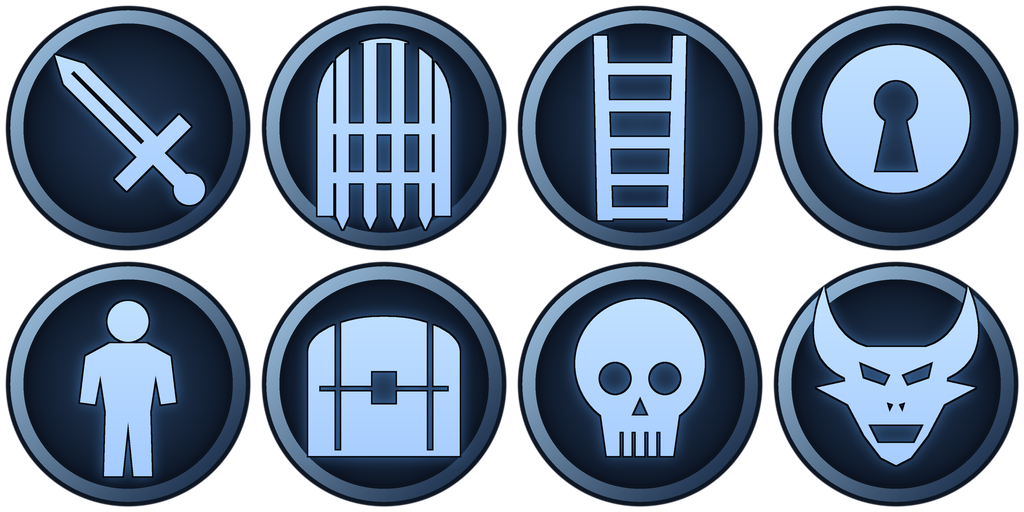
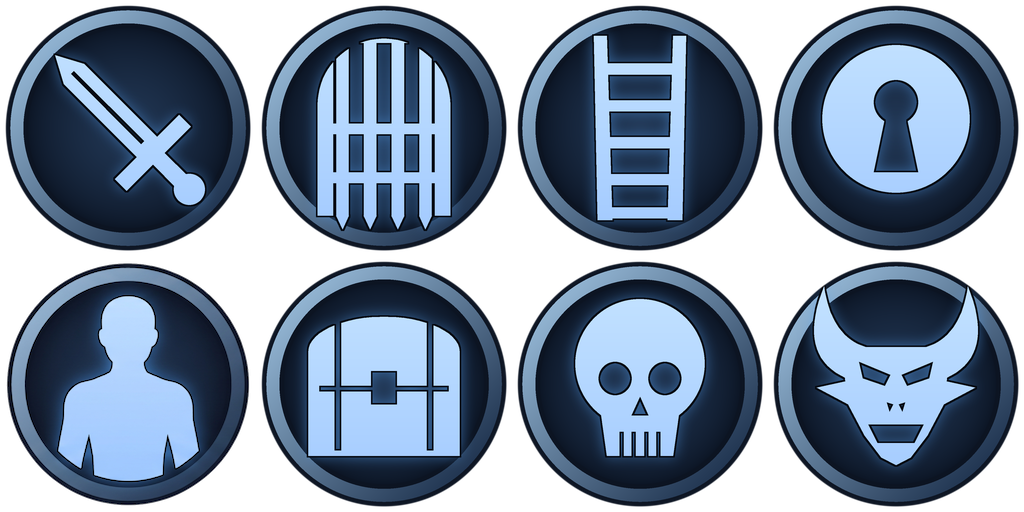
added x marker for a dead firekeeper bonfire

Changed region(s): [[0.0, 0.5, 0.25, 1.0]]

diff --git a/GameMap.h b/GameMap.h
@@ -88,6 +88,11 @@ namespace Look {
     const float kBonfireNameSize = 11.0f;
     const D3DCOLOR kBonfireName = D3DCOLOR_ARGB(240, 236, 214, 170);
     const D3DCOLOR kNameBack = D3DCOLOR_ARGB(200, 14, 11, 8), kNameLine = D3DCOLOR_ARGB(210, 176, 146, 92);
+    // a bonfire whose Fire Keeper is absent: a red X over the dimmed bonfire, its label in red
+    const D3DCOLOR kKeeperX = D3DCOLOR_ARGB(255, 214, 38, 30);
+    const D3DCOLOR kKeeperName = D3DCOLOR_ARGB(255, 236, 96, 80), kKeeperNameLine = D3DCOLOR_ARGB(210, 170, 50, 40);
+    const float kKeeperDark = 0.50f;                        // the bonfire under the X
+    const float kKeeperXSize = 0.78f;                       // the X, as a part of the bonfire icon
     const float kNamePadX = 4.0f, kNamePadY = 1.5f;
     const float kBonfireNameWorldZoom = 1.2f;              // world page: labels when zoomed in to this (metres per UI pixel) or closer
     const D3DCOLOR kUpMark = D3DCOLOR_ARGB(255, 240, 200, 110);
@@ -402,7 +407,13 @@ namespace Look {
 // Then the pins: "PINS", version 1, for each of the 10 slots a count and that many PinRec. An older DSfix reads the
 // slots and does not look further (it keeps working, without the pins).
 // =====================================================================================================================
-    struct SlotData { bool used; wchar_t name[16]; std::vector<CellRec> cells; std::vector<PinRec> pins; };
+    // the Fire Keepers seen by the character in play (see watchKeepers): 0 = not seen yet, 1 = there, 2 = absent
+    const int kKeepers = 3;
+    const DWORD kKeeperBonfire[kKeepers] = { 1021960, 1401960, 1511960 };   // Firelink Shrine, Daughter of Chaos, Anor Londo
+    const WORD kKeeperPlace[kKeepers] = { 1020, 1401, 1510 };                 // their areas: Firelink Shrine, Quelaag's Domain, Anor Londo
+    BYTE g_keepers[kKeepers] = { 0, 0, 0 };
+    DWORD g_keeperSince[kKeepers] = { 0, 0, 0 };   // its area loaded since (0: not loaded)
+    struct SlotData { bool used; wchar_t name[16]; std::vector<CellRec> cells; std::vector<PinRec> pins; BYTE keepers[3]; };
     SlotData g_file[10];
     bool g_fileRead = false;
     std::string g_filePath;                           // empty = no save folder found: kept only while the game runs
@@ -443,7 +454,10 @@ namespace Look {
 
     void readFile() {
         g_fileRead = true;
-        for (int s = 0; s < 10; ++s) { g_file[s].used = false; g_file[s].name[0] = 0; g_file[s].cells.clear(); g_file[s].pins.clear(); }
+        for (int s = 0; s < 10; ++s) {
+            g_file[s].used = false; g_file[s].name[0] = 0; g_file[s].cells.clear(); g_file[s].pins.clear();
+            memset(g_file[s].keepers, 0, sizeof(g_file[s].keepers));
+        }
         const std::string folder = findSaveFolder();
         if (folder.empty()) { SDLOG(0, "gameMap: no save folder found, the explored map is kept only while the game runs\n"); return; }
         g_filePath = folder + "\\DSfixMap.dat";
@@ -479,9 +493,10 @@ namespace Look {
             ++whole;
         }
         // the pins (after the 10 slots)
+        int pinSlots = 0;                            // slots whose pins were read completely
         if (whole == 10 && p + 8 <= d.size() && memcmp(&d[p], "PINS", 4) == 0 && *(const DWORD*)&d[p + 4] == 1) {
             p += 8;
-            for (int s = 0; s < 10; ++s) {
+            for (int s = 0; s < 10; ++s, ++pinSlots) {
                 if (p + 4 > d.size()) break;
                 const DWORD n = *(const DWORD*)&d[p]; p += 4;
                 if (n > (DWORD)kPinMax || p + (size_t)n * sizeof(PinRec) > d.size()) break;
@@ -496,6 +511,12 @@ namespace Look {
                 }
             }
         }
+        // the Fire Keepers seen (after the pins): "KEEP", version 1, 3 bytes per slot (0 not seen, 1 there, 2 absent)
+        if (pinSlots == 10 && p + 8 + 30 <= d.size() && memcmp(&d[p], "KEEP", 4) == 0 && *(const DWORD*)&d[p + 4] == 1) {
+            p += 8;
+            for (int s = 0; s < 10; ++s)
+                for (int k = 0; k < 3; ++k, ++p) g_file[s].keepers[k] = d[p] <= 2 ? d[p] : 0;
+        }
         SDLOG(0, "gameMap: %s read\n", g_filePath.c_str());
     }
 
@@ -506,6 +527,7 @@ namespace Look {
         sd.used = true;
         memcpy(sd.name, g_activeName, sizeof(sd.name));
         sd.pins = g_pins;
+        memcpy(sd.keepers, g_keepers, sizeof(sd.keepers));
         sd.cells.clear();
         sd.cells.reserve(g_cellCount);
         for (int p = 0; p < kPlaceCount; ++p)
@@ -545,6 +567,7 @@ namespace Look {
         for (int s = 0; s < 10; ++s) total += 40 + g_file[s].cells.size() * sizeof(CellRec);
         total += 8;                                  // the pins: "PINS", version, then a count and the pins of each slot
         for (int s = 0; s < 10; ++s) total += 4 + g_file[s].pins.size() * sizeof(PinRec);
+        total += 8 + 30;                             // the Fire Keepers: "KEEP", version, 3 bytes per slot
         j->data.resize(total);
         BYTE* p = &j->data[0];
         memcpy(p, "DSMP", 4); *(DWORD*)(p + 4) = 1; *(DWORD*)(p + 8) = 10; p += 12;
@@ -561,6 +584,8 @@ namespace Look {
             *(DWORD*)p = n; p += 4;
             if (n) { memcpy(p, &g_file[s].pins[0], n * sizeof(PinRec)); p += n * sizeof(PinRec); }
         }
+        memcpy(p, "KEEP", 4); *(DWORD*)(p + 4) = 1; p += 8;
+        for (int s = 0; s < 10; ++s) { memcpy(p, g_file[s].keepers, 3); p += 3; }
         HANDLE t = CreateThread(NULL, 0, writerThread, j, 0, NULL);
         if (!t) { delete j; InterlockedExchange(&g_writing, 0); return false; }
         CloseHandle(t);
@@ -578,6 +603,8 @@ namespace Look {
         }
         clearCells();
         g_pins.clear();
+        memset(g_keepers, 0, sizeof(g_keepers));
+        memset(g_keeperSince, 0, sizeof(g_keeperSince));
         g_activeSlot = slot;
         memcpy(g_activeName, name, sizeof(g_activeName));
         g_activeName[15] = 0;
@@ -585,6 +612,7 @@ namespace Look {
         bool same = sd.used && wcsncmp(sd.name, g_activeName, 16) == 0;
         if (same) {
             g_pins = sd.pins;
+            memcpy(g_keepers, sd.keepers, sizeof(g_keepers));
             for (size_t i = 0; i < sd.cells.size(); ++i) {
                 const CellRec& c = sd.cells[i];
                 const int p = placeIndex(c.place);
@@ -663,6 +691,46 @@ namespace Look {
                     }
             if (!rdD(node, node)) return;
         }
+    }
+
+    // ---- Fire Keepers: a bonfire whose Fire Keeper is dead ("Fire Keeper is absent. Cannot light bonfire.") ----
+    // The bonfire list's entry: +0xD = 1 while the keeper is there, but only while its area is loaded (+0xE != 0; the game
+    // sets both together and clears both when the area unloads). So, about once a second, and only while the hero is in one
+    // of the three keepers' areas (the area the game names, as on the map), the bonfire list is read. The last state seen
+    // there is kept per character in DSfixMap.dat: the map shows it anywhere.
+    DWORD g_keeperTick = 0;
+    void watchKeepers(DWORD now) {
+        if (now - g_keeperTick < 1000) return;
+        g_keeperTick = now;
+        bool here = false;
+        if (g_heroPlace >= 0)
+            for (int k = 0; k < kKeepers; ++k) if (kPlaces[g_heroPlace].id == kKeeperPlace[k]) here = true;
+        if (!here) { memset(g_keeperSince, 0, sizeof(g_keeperSince)); return; }   // elsewhere: nothing more is read
+        bool seen[kKeepers] = { false, false, false };
+        DWORD root = 0, db = 0, head = 0, node = 0;
+        if (!rdD(kBonfireRoot, root) || !root || !rdD(root + 0xB48, db) || !db || !rdD(db + 0x24, head) || !head) return;
+        if (!rdD(head, node)) return;
+        for (int n = 0; node && node != head && n < 256; ++n) {
+            DWORD item = 0, e = 0, f = 0;
+            if (!rdD(node + 8, item)) return;
+            if (item && rdD(item + 4, e))
+                for (int k = 0; k < kKeepers; ++k) {
+                    if (e != kKeeperBonfire[k] || !rdD(item + 0xC, f)) continue;
+                    if (((f >> 16) & 0xFF) == 0) continue;                 // its area is not loaded: +0xD says nothing
+                    seen[k] = true;
+                    if (!g_keeperSince[k]) g_keeperSince[k] = now | 1;
+                    if (now - g_keeperSince[k] < 3000) continue;          // just loaded: the game may not be done
+                    const BYTE st = ((f >> 8) & 0xFF) ? 1 : 2;
+                    if (st != g_keepers[k]) { g_keepers[k] = st; g_dirty = true; }
+                }
+            if (!rdD(node, node)) return;
+        }
+        for (int k = 0; k < kKeepers; ++k) if (!seen[k]) g_keeperSince[k] = 0;
+    }
+    // the bonfire (table index) has no Fire Keeper (the map's red X)
+    bool keeperAbsent(int b) {
+        for (int k = 0; k < kKeepers; ++k) if (kBonfires[b].entity == kKeeperBonfire[k]) return g_keepers[k] == 2;
+        return false;
     }
 
     // the areas with something to show, in page order
@@ -861,8 +929,8 @@ namespace Look {
     IDirect3DTexture9* g_blob = NULL;           // soft round spot (icons)
     IDirect3DTexture9* g_bump = NULL;           // the ground spot: alpha = smooth bump, colour white inside the circle
     IDirect3DTexture9* g_bonfireTex = NULL;
-    enum { SHAPE_HERO, SHAPE_UP, SHAPE_STAIN_ARROW, SHAPE_COUNT };
-    IDirect3DTexture9* g_shape[SHAPE_COUNT] = { NULL, NULL, NULL };
+    enum { SHAPE_HERO, SHAPE_UP, SHAPE_STAIN_ARROW, SHAPE_X, SHAPE_COUNT };
+    IDirect3DTexture9* g_shape[SHAPE_COUNT] = { NULL, NULL, NULL, NULL };
     bool g_bonfireTried = false;
     IDirect3DTexture9* g_pinTex = NULL;         // the 8 medallions (4 x 2), premultiplied, with smaller copies
     bool g_pinTried = false;
@@ -971,9 +1039,21 @@ namespace Look {
     bool makeShapes(IDirect3DDevice9* dev) {
         static const float arrow[8] = { 0.50f, 0.08f, 0.86f, 0.90f, 0.50f, 0.70f, 0.14f, 0.90f };   // tip, right, notch, left
         static const float up[6] = { 0.50f, 0.14f, 0.88f, 0.82f, 0.12f, 0.82f };
+        // the red X (a Fire Keeper is absent): a plus with arms 0.09 wide, turned 45 degrees
+        float x[24];
+        {
+            const float h = 0.085f, L = 0.40f, c = 0.70710678f;
+            const float plus[24] = { -h, -L, h, -L, h, -h, L, -h, L, h, h, h, h, L, -h, L, -h, h, -L, h, -L, -h, -h, -h };
+            for (int i = 0; i < 12; ++i) {
+                const float px = plus[2 * i], py = plus[2 * i + 1];
+                x[2 * i] = 0.5f + (px - py) * c;
+                x[2 * i + 1] = 0.5f + (px + py) * c;
+            }
+        }
         return makeShape(dev, SHAPE_HERO, arrow, 4, Look::kHero, Look::kHeroOutline, 0.045f) &&
             makeShape(dev, SHAPE_UP, up, 3, Look::kUpMark, Look::kHeroOutline, 0.06f) &&
-            makeShape(dev, SHAPE_STAIN_ARROW, arrow, 4, Look::kStain, Look::kHeroOutline, 0.05f);
+            makeShape(dev, SHAPE_STAIN_ARROW, arrow, 4, Look::kStain, Look::kHeroOutline, 0.05f) &&
+            makeShape(dev, SHAPE_X, x, 12, Look::kKeeperX, Look::kHeroOutline, 0.035f);
     }
     // a textured square turned so that the texture's top points along (dx, dy) (screen, unit length)
     void quadDir(float cx, float cy, float half, float dx, float dy, D3DCOLOR c) {
@@ -1861,6 +1941,7 @@ namespace Look {
             const wchar_t* lText[64];
             wchar_t lBuf[64][96];                               // "name (K:n)": n = the Estus the bonfire gives, 5 / 10 / 15 / 20
             LRect lRect[64];
+            bool lRed[64];
             if (g_page == 0 || g_zoom[1] <= Look::kBonfireNameWorldZoom) {
                 const float lh = Look::kBonfireNameSize * s * 1.2f, px_ = Look::kNamePadX * s, py_ = Look::kNamePadY * s;
                 for (int i = 0; i < nb; ++i) {
@@ -1878,7 +1959,7 @@ namespace Look {
                     const LRect* pick = labelSpot(bx[i], by[i], bsz[i] * 0.32f, by[i] - bsz[i] * 0.5f, by[i] + bsz[i] * 0.45f, w, h, &spot);
                     if (!pick) continue;
                     addObst(*pick);
-                    lText[nl] = name; lRect[nl] = *pick; ++nl;
+                    lText[nl] = name; lRect[nl] = *pick; lRed[nl] = keeperAbsent(b); ++nl;
                 }
             }
             // pin labels (up to two lines of 17): under the medallion, else above, right or left of it, else left out
@@ -1906,10 +1987,18 @@ namespace Look {
             if (g_bonfireTex) setDrawStates(dev, g_bonfireTex, false);
             else setDrawStates(dev, g_blob, false);
             for (int i = 0; i < nb; ++i) {
-                const float k = bBelow[i] ? Look::kBonfireBelowDark : 1.0f, sz = bsz[i];
+                const float k = (bBelow[i] ? Look::kBonfireBelowDark : 1.0f) * (keeperAbsent(bi[i]) ? Look::kKeeperDark : 1.0f), sz = bsz[i];
                 const DWORD a = (DWORD)(fade * 255.0f + 0.5f), c = (DWORD)(fade * k * 255.0f + 0.5f);
                 const D3DCOLOR col = g_bonfireTex ? D3DCOLOR_ARGB(a, c, c, c) : pm(D3DCOLOR_ARGB(255, 255, 150, 50), fade * k);
                 quad(bx[i] - sz * 0.5f, by[i] - sz * 0.5f, bx[i] + sz * 0.5f, by[i] + sz * 0.5f, col);
+            }
+            flush(dev);
+            setDrawStates(dev, g_shape[SHAPE_X], false);
+            for (int i = 0; i < nb; ++i) {                      // the red X: its Fire Keeper is absent
+                if (!keeperAbsent(bi[i])) continue;
+                const float m = bsz[i] * Look::kKeeperXSize * 0.5f;
+                const DWORD f8 = (DWORD)(fade * 255.0f + 0.5f);
+                quad(bx[i] - m, by[i] - m, bx[i] + m, by[i] + m, D3DCOLOR_ARGB(f8, f8, f8, f8));
             }
             flush(dev);
             setDrawStates(dev, g_shape[SHAPE_UP], false);
@@ -1944,7 +2033,7 @@ namespace Look {
                 for (int i = 0; i < nl; ++i) {
                     const LRect& r = lRect[i];
                     quad(r.l, r.t, r.r, r.b, pm(Look::kNameBack, fade));
-                    const D3DCOLOR c = pm(Look::kNameLine, fade);
+                    const D3DCOLOR c = pm(lRed[i] ? Look::kKeeperNameLine : Look::kNameLine, fade);
                     quad(r.l, r.t, r.r, r.t + lw, c); quad(r.l, r.b - lw, r.r, r.b, c);
                     quad(r.l, r.t + lw, r.l + lw, r.b - lw, c); quad(r.r - lw, r.t + lw, r.r, r.b - lw, c);
                 }
@@ -1967,7 +2056,7 @@ namespace Look {
             }
             for (int i = 0; i < na; ++i) text(1, aText[i], ax[i], ay[i], Look::kLabel, DT_CENTER | DT_TOP, fade);
             for (int i = 0; i < nl; ++i)
-                text(3, lText[i], (lRect[i].l + lRect[i].r) * 0.5f, lRect[i].t + Look::kNamePadY * s, Look::kBonfireName, DT_CENTER | DT_TOP, fade);
+                text(3, lText[i], (lRect[i].l + lRect[i].r) * 0.5f, lRect[i].t + Look::kNamePadY * s, lRed[i] ? Look::kKeeperName : Look::kBonfireName, DT_CENTER | DT_TOP, fade);
 
             // soul remains: a green spot, or an arrow on the edge pointing to it
             if (g_stainHas && onPage(g_stainPlace)) {
@@ -2537,6 +2626,7 @@ namespace Look {
             }
         }
         if (now - g_stainCheckTick > 500) { g_stainCheckTick = now; readStain(true); }
+        watchKeepers(now);                              // the Fire Keepers: once a second, and only in their 3 areas
         if (g_dirty && now - g_lastSaveTick > 60000) { g_lastSaveTick = now; saveFile(); }
         if (g_writing == 2) { InterlockedExchange(&g_writing, 0); SDLOG(0, "gameMap: could not write %s\n", g_filePath.c_str()); }
 

diff --git a/main.h b/main.h
@@ -27,12 +27,12 @@
 
 #define WITHOUT_GFWL_LIB
 
-#ifndef RELEASE_VER
+//#ifndef RELEASE_VER
 #include "Settings.h" // SDLOG reads the log level; needed by every file that uses SDLOG when RELEASE_VER is not defined
 #define SDLOG(_level, _str, ...) if(Settings::get().getLogLevel() > _level) { sdlog(_str, __VA_ARGS__); }
-#else
-#define SDLOG(_level, _str, ...) {}
-#endif
+//#else
+//#define SDLOG(_level, _str, ...) {}
+//#endif
 #define SAFERELEASE(_p) { if(_p) { (_p)->Release(); (_p) = NULL; } }
 #define SAFEDELETE(_p) { if(_p) { delete (_p); (_p) = NULL; } }
 

diff --git a/README.md b/README.md
@@ -41,30 +41,9 @@ To ensure maximum stability on modern machines, configure your environment using
 * **Multiple Covenant Offerings:** `covenantOfferings` (off by default) turns the "Offer ...?" question at a covenant altar or leader into the game's own number picker, so many Sunlight Medals, Dragon Scales, Eyes of Death, Souvenirs of Reprisal, or many Humanity, can be handed over in one step instead of answering Yes once per item. Six covenants take offerings and all six are covered: Warriors of Sunlight, Darkwraith, Path of the Dragon, Gravelord Servant, Blade of the Darkmoon and Chaos Servant. Forest Hunter ranks up by killing invaders rather than by offerings, and Way of White and Princess's Guard have no ranks. The picker never offers enough to reach the next covenant rank, so the offering that ranks you up is always the game's own unchanged single question and its reward arrives exactly as it always did; below rank 1 the picker stops at 9, between the first two ranks at 29, between the next two at 79, and after the last rank it goes up to 100. The number offered is never more than you hold, the game's own question is kept word for word so it reads correctly in all ten languages, and the window follows the `menuScale` setting. The items taken and the devotion gained are written in the same single step, so the two can never disagree, and if anything does not add up the offering is simply left as a normal single one. Before anything is patched, both places in the game's code are compared against the bytes this build should have, and if either differs nothing is changed and the feature stays off. The addresses and the technique come from the Dark Souls Overhaul team's research (metal-crow and Sean Pesce, "Multi-Tribute"); the implementation here is DSfix 3.0's own code.
 * **Durability Bars for weapons:** Shows a thin Dark Souls 3 style bar under each weapon slot. The dark red part shrinks as the weapon loses durability, and the dark background stays. An empty hand has no bar. While two-handing, the bar fades together with the other hand's weapon icon. If a bow or crossbow is equipped, the arrow/bolt box and its count move down so they stay below the bar. The bars are part of the bottom-left HUD, so every scaling option apply to them.
 ### In-game map (gameMap)
-Open the gesture window (Back) while you play and a map appears next to it, a little see-through
-(the game is not paused; the bottom-left HUD fades out meanwhile).
-
-- Shows only the ground you have explored; it is revealed as you walk and saved per character
-  in `DSfixMap.dat`, next to your save file.
-- Shows height by brightness: ground at your level is bright, lower ground is darker, higher ground
-  is fainter, so floors stacked above each other stay readable.
-- Area pages (Firelink Shrine, Undead Burg, ...) and a world page of all Lordran, with area names.
-  Anor Londo is at the top.
-- Your lit bonfires (read from the game, so loading an older save shows that save's bonfires),
-  with their names and their kindle level, for example `Anor Londo (K:10)`: K is the number of
-  Estus Flask charges the bonfire gives (5 lit, 10 / 15 / 20 kindled). Lower or higher bonfires are marked.
-- Your soul remains (green spot, or an arrow on the edge when off the map) and your direction.
-- **Map pins:** put your own markers on the map ("Come back with Master Key", "Merchant", "Hard enemy").
-  Choose one of 8 medallions and write up to 34 letters (shown in two lines under the pin).
-  Pins go only on the ground you have explored, never on top of each other or a bonfire, and they
-  zoom, move and change page with the map like bonfires. Saved per character in `DSfixMap.dat`.
- 
-- No fast travel: the map only shows.
-- Controls: pad RS move, LT/RT zoom, LB/RB area, R3 area/world. Mouse drag move, wheel zoom,
-  `,` / `.` area, `M` area/world.
-- Characters you played before using the map start with an empty map (their lit bonfires show anyway).
-
-`gameMap 1` in DSfix.ini to turn it on (default 0 = off, nothing installed).
+Opening the gesture menu displays a semi-transparent in-game map that reveals the world as you explore, with separate views for individual areas and all of Lordran. 
+It uses brightness to show elevation and tracks your direction, lost souls, and lit bonfires—including their kindle levels and whether a Fire Keeper has died. 
+You can also place custom labeled pins on explored ground.
 
 * **Camera Distance: Set how far the camera is from your character while you play: closer than vanilla (down to 0.5×) or farther (up to 2×). By default, the lock-on camera keeps the vanilla distance and moves in smoothly when you lock on. Set cameraDistanceLockOn 1 to keep your distance during lock-on too. A key in DSfixKeys.ini (toggleCameraDistance) switches between your distance and vanilla at any time, with a smooth move. Wall collision works as before, and cutscenes and bow aiming are not changed. At cameraDistance 1.0 the feature is off and nothing is patched.
 * **Sun/Moon & Water Issue Fixed:** Now they render perfectly at their intended screen-space locations. For resolution 1440p or 4K, DoF Override Resolution must not be 0 otherwise the water stays at vanilla quality.
